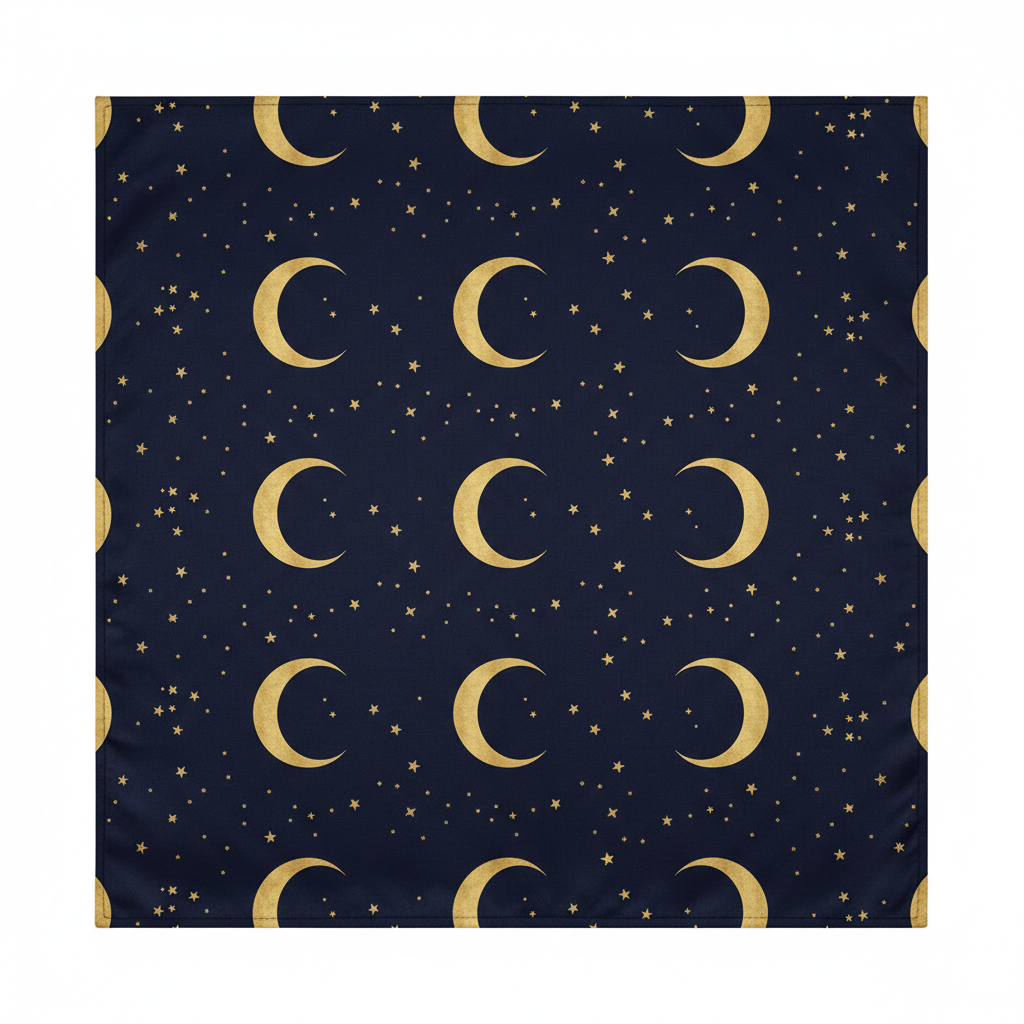
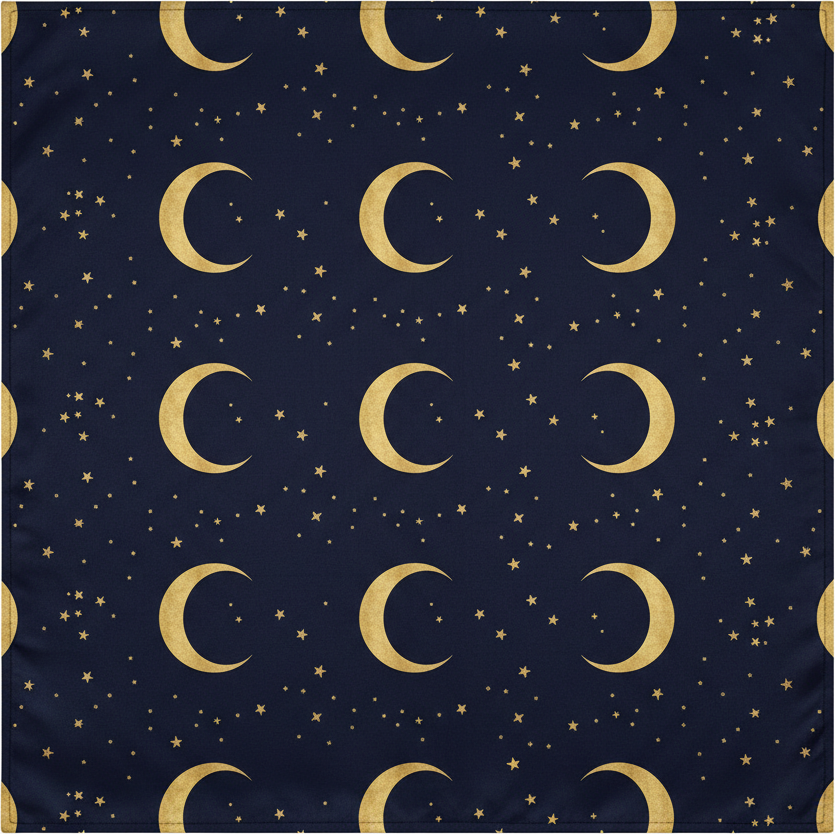
feat: 白枠自動トリムスクリプトを追加
sharp で純白の縁を自動検出してトリムする npm run trim を追加。
既存200件のうち3件（086, 125, 151）の白枠を除去。

diff --git a/scripts/trim-patterns.ts b/scripts/trim-patterns.ts
@@ -1,0 +1,76 @@
+#!/usr/bin/env tsx
+/**
+ * COCOcase Pattern Tracker — 白枠トリムスクリプト
+ *
+ * public/patterns/*.png を走査して、純白に近い縁があれば自動で切り落とす。
+ * 枠のない画像には影響なし（sharp の trim が何もしない）。
+ *
+ * 使い方:
+ *   npm run trim
+ *   npm run trim -- --dry-run  （実際には書き換えず、対象だけ表示）
+ */
+
+import sharp from "sharp";
+import * as fs from "fs";
+import * as path from "path";
+
+const PATTERNS_DIR = path.join(process.cwd(), "public", "patterns");
+const THRESHOLD = 15;
+const WHITE_BG = { r: 255, g: 255, b: 255, alpha: 1 };
+
+const dryRun = process.argv.includes("--dry-run");
+
+async function trimOne(file: string): Promise<"trimmed" | "unchanged" | "fail"> {
+  const filePath = path.join(PATTERNS_DIR, file);
+  try {
+    const original = await sharp(filePath).metadata();
+    const buffer = await sharp(filePath)
+      .trim({ background: WHITE_BG, threshold: THRESHOLD })
+      .png()
+      .toBuffer();
+    const trimmed = await sharp(buffer).metadata();
+
+    const changed =
+      trimmed.width !== original.width || trimmed.height !== original.height;
+
+    if (!changed) return "unchanged";
+
+    console.log(
+      `✂  ${file}: ${original.width}x${original.height} → ${trimmed.width}x${trimmed.height}`
+    );
+
+    if (!dryRun) fs.writeFileSync(filePath, buffer);
+    return "trimmed";
+  } catch (e: unknown) {
+    const msg = e instanceof Error ? e.message : String(e);
+    console.log(`❌ ${file}: ${msg}`);
+    return "fail";
+  }
+}
+
+async function main() {
+  const files = fs
+    .readdirSync(PATTERNS_DIR)
+    .filter(f => f.endsWith(".png"))
+    .sort();
+
+  console.log(`\n🔍 ${files.length}件をスキャン${dryRun ? " (DRY RUN)" : ""}\n`);
+
+  const results = { trimmed: 0, unchanged: 0, fail: 0 };
+  for (const file of files) {
+    const r = await trimOne(file);
+    results[r]++;
+  }
+
+  console.log(`\n${"=".repeat(50)}`);
+  console.log(`✨ 完了`);
+  console.log(`   ✂  トリム: ${results.trimmed}`);
+  console.log(`   ⏭  変更なし: ${results.unchanged}`);
+  console.log(`   ❌ 失敗: ${results.fail}`);
+  if (dryRun) console.log(`\n💡 --dry-run なので書き換えていません`);
+}
+
+main().catch(e => {
+  console.error("予期せぬエラー:", e);
+  process.exit(1);
+});
